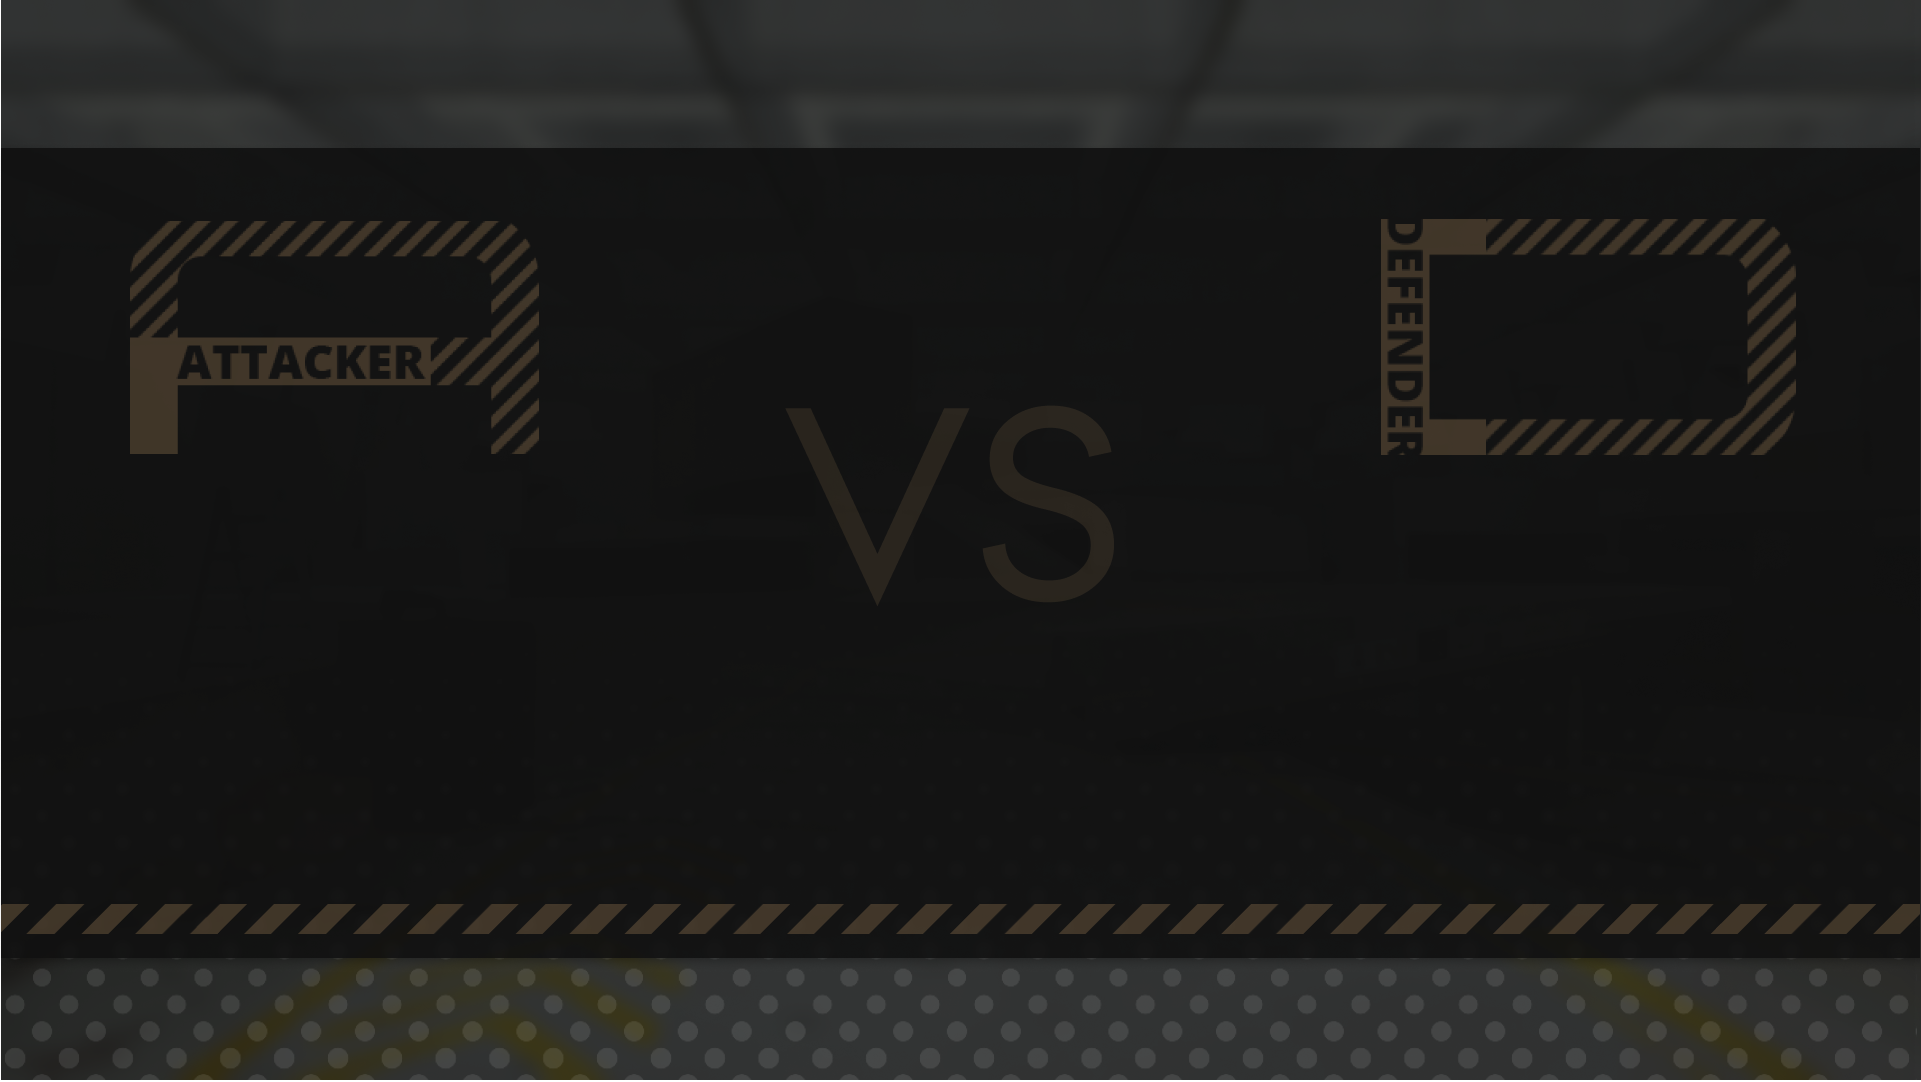
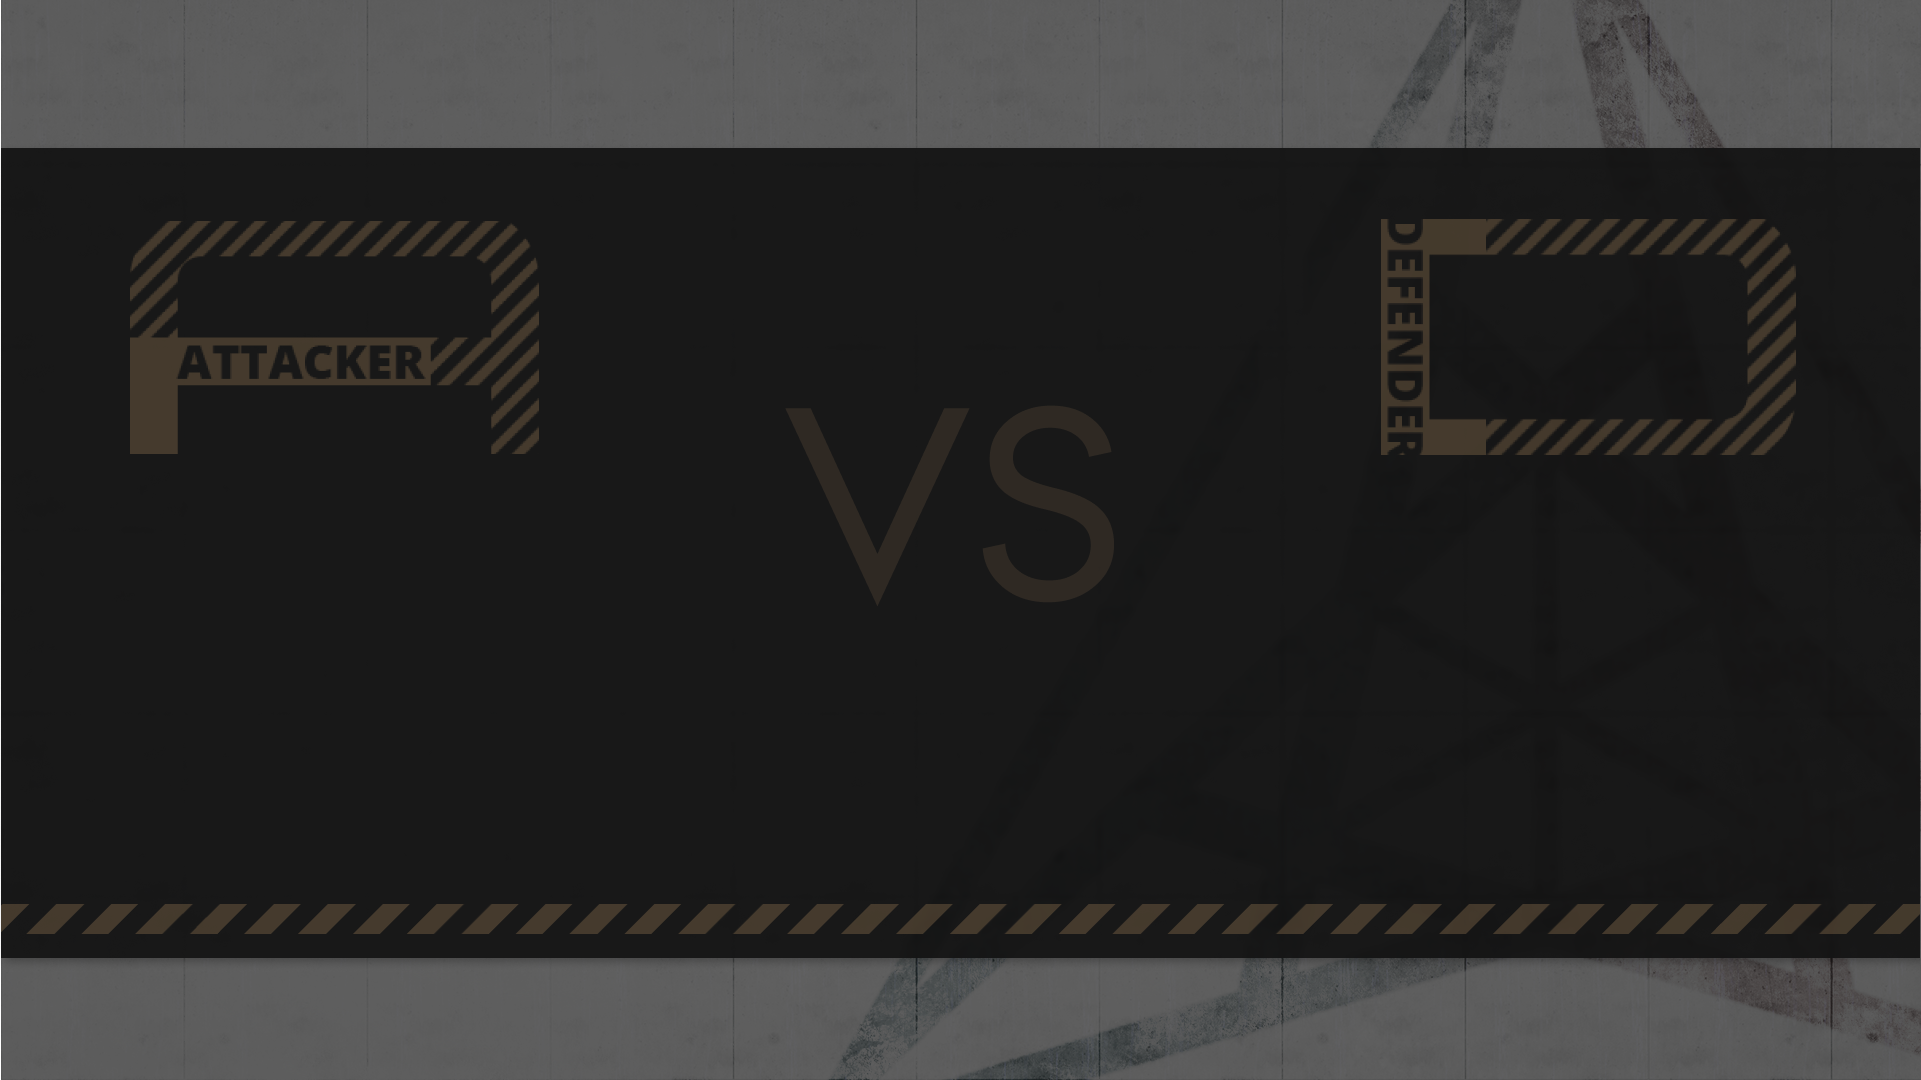
pushy
- replace simulate background
- retain simulate page values
- clicking on back will go to main menu's conflict res

Changed region(s): [[0.0, 0.0, 1.0, 1.0]]

diff --git a/Editor/src/Window/Overlay/SimulateOverlay.cpp b/Editor/src/Window/Overlay/SimulateOverlay.cpp
@@ -18,12 +18,15 @@
 
 namespace Tempest
 {
-	void SimulateOverlay::open_popup(const Event&)
+	void SimulateOverlay::open_popup(const Event& e)
 	{
+		auto a = event_cast<OpenSimulateTrigger>(e);
 		OverlayOpen = true;
 		window_flags = ImGuiWindowFlags_NoScrollbar | ImGuiWindowFlags_NoScrollWithMouse | ImGuiWindowFlags_NoTitleBar;
-		attacker.Reset();
-		defender.Reset();
+		attacker.Reset(a.instance);
+		defender.Reset(a.instance);
+
+		if (!a.instance.ecs.view<Components::Graph>(exclude_t<tc::Destroyed>()).contains(sequence))
 		sequence = UNDEFINED;
 
 		padding = ImGui::GetMainViewport()->Size.y * 0.02f;
@@ -201,7 +204,7 @@ namespace Tempest
 					if (UI::UIImageButton((void*)static_cast<size_t>(tex->GetID()), ImVec2{ tex->GetWidth() * 0.7f, tex->GetHeight() * 0.7f }, { 0,0 }, { 1,1 }, 0, { 0,0,0,0 }, btnTintHover, btnTintPressed))
 					{
 						OverlayOpen = false;
-						Service<EventManager>::Get().instant_dispatch<OpenMainMenuTrigger>();
+						Service<EventManager>::Get().instant_dispatch<OpenMainMenuTrigger>(3);
 					}
 
 					ImGui::SameLine();
@@ -568,5 +571,17 @@ namespace Tempest
 	void SimulateOverlay::pop_button_style() const
 	{
 		ImGui::PopStyleColor(3);
+	}
+
+	void SimulateOverlay::UnitData::Reset(Instance& instance)
+	{
+		if (!instance.ecs.view<Components::Character>(exclude_t<tc::Destroyed>()).contains(unit_id))
+			unit_id = UNDEFINED;
+
+		if (!instance.ecs.view<Components::Weapon>(exclude_t<tc::Destroyed>()).contains(weapon))
+			weapon = UNDEFINED;
+
+		if (!instance.ecs.view<Components::Graph>(exclude_t<tc::Destroyed>()).contains(action))
+			action = UNDEFINED;
 	}
 }

diff --git a/Editor/src/Window/Overlay/MainMenuOverlay.cpp b/Editor/src/Window/Overlay/MainMenuOverlay.cpp
@@ -15,13 +15,14 @@
 
 namespace Tempest
 {
-	void MainMenuOverlay::open_popup(const Event&)
+	void MainMenuOverlay::open_popup(const Event& e)
 	{
+		auto a = event_cast<OpenMainMenuTrigger>(e);
 		OverlayOpen = true;
 		MapTitle = "";
 		SelectedConflictRes = 0;
 		SelectedSequences.clear();
-		MainMenuUI = UI_SHOW::INITIAL;
+		MainMenuUI = static_cast<UI_SHOW>(a.menuType);
 		window_flags =  ImGuiWindowFlags_NoTitleBar;
 	}
 
@@ -291,7 +292,7 @@ namespace Tempest
 				if (UI::UIConflictSelectable(str.c_str(), false, 1).first)
 				{
 					OverlayOpen = false;
-					Service<EventManager>::Get().instant_dispatch<OpenSimulateTrigger>();
+					Service<EventManager>::Get().instant_dispatch<OpenSimulateTrigger>(instance);
 				}
 				ImGui::Dummy({ 0.f, viewport.Size.y * 0.07f });
 				cur_pos = ImGui::GetCursorPos();

diff --git a/Editor/src/Triggers/Triggers.h b/Editor/src/Triggers/Triggers.h
@@ -96,7 +96,12 @@ namespace Tempest
 	};
 
 	//Overlay Trigger
-	struct OpenSimulateTrigger : public Event {};
+	struct OpenSimulateTrigger : public Event 
+	{
+		OpenSimulateTrigger(Instance& in): instance{ in }  {}
+		Instance& instance;
+	};
+
 	struct OpenSimulateResultTrigger : public Event
 	{
 		OpenSimulateResultTrigger(Entity a, Entity d, Entity c):
@@ -117,7 +122,12 @@ namespace Tempest
 	};
 
 	struct OpenConflictResTrigger : public Event {};
-	struct OpenMainMenuTrigger : public Event {};
+	struct OpenMainMenuTrigger : public Event
+	{
+		OpenMainMenuTrigger(int type = 0) : menuType{ type } {}
+		int menuType;
+	};
+
 	struct OpenActionGraphTrigger : public Event // not using for new change
 	{
 		OpenActionGraphTrigger(Entity entityid, Instance& in) : id{ entityid }, instance{in} {}

diff --git a/Editor/src/Window/Overlay/UnitSheetOverlay.cpp b/Editor/src/Window/Overlay/UnitSheetOverlay.cpp
@@ -118,7 +118,6 @@ namespace Tempest
 					unsigned i = 0;
 					auto view = instance.ecs.view<Components::Character>(exclude_t<tc::Destroyed>());
 
-
 					// TODO: store selected item
 					const ImVec2 cursor{ ImGui::GetCursorPosX() + 30, ImGui::GetCursorPosY() + 20 };
 					for (auto id : view)
@@ -208,7 +207,8 @@ namespace Tempest
 					{
 						OverlayOpen = false;
 						ImGui::CloseCurrentPopup();
-						Service<EventManager>::Get().instant_dispatch<OpenSimulateTrigger>();
+						Service<EventManager>::Get().instant_dispatch<OpenMainMenuTrigger>(3);
+						//Service<EventManager>::Get().instant_dispatch<OpenSimulateTrigger>();
 					}
 
 					ImGui::SameLine();

diff --git a/Editor/src/Window/Overlay/AttackSystemOverlay.cpp b/Editor/src/Window/Overlay/AttackSystemOverlay.cpp
@@ -365,7 +365,8 @@ namespace Tempest
 						if (ImGui::ImageButton((void*)static_cast<size_t>(tex->GetID()), ImVec2{ tex->GetWidth() * 0.7f, tex->GetHeight() * 0.7f }))
 						{
 							OverlayOpen = false;
-							Service<EventManager>::Get().instant_dispatch<OpenSimulateTrigger>();
+							Service<EventManager>::Get().instant_dispatch<OpenMainMenuTrigger>(3);
+							//Service<EventManager>::Get().instant_dispatch<OpenSimulateTrigger>();
 						}
 
 						ImGui::SameLine();

diff --git a/Editor/src/Window/Popup/QuickMenuPopup.h b/Editor/src/Window/Popup/QuickMenuPopup.h
@@ -94,7 +94,7 @@ namespace Tempest
                         enable_popup = false;
                         ImGui::CloseCurrentPopup();
                         Service<EventManager>::Get().instant_dispatch<CloseOverlayTrigger>(current);
-                        Service<EventManager>::Get().instant_dispatch<OpenSimulateTrigger>();
+                        Service<EventManager>::Get().instant_dispatch<OpenSimulateTrigger>(instance);
                     }
 
 

diff --git a/Editor/src/Window/Overlay/SimulateOverlay.h b/Editor/src/Window/Overlay/SimulateOverlay.h
@@ -52,11 +52,7 @@ namespace Tempest
             Entity unit_id{ UNDEFINED };
             Entity weapon{ UNDEFINED };
             Entity action{ UNDEFINED };
-            void Reset() {
-                unit_id = UNDEFINED;
-                weapon = UNDEFINED;
-                action = UNDEFINED;
-            }
+            void Reset(Instance& instance);
         };
 
         UnitData attacker{};

diff --git a/Editor/src/Window/Overlay/WeaponSheetOverlay.cpp b/Editor/src/Window/Overlay/WeaponSheetOverlay.cpp
@@ -176,7 +176,8 @@ namespace Tempest
 					{
 						OverlayOpen = false;
 						ImGui::CloseCurrentPopup();
-						Service<EventManager>::Get().instant_dispatch<OpenSimulateTrigger>();
+						Service<EventManager>::Get().instant_dispatch<OpenMainMenuTrigger>(3);
+						//Service<EventManager>::Get().instant_dispatch<OpenSimulateTrigger>();
 					}
 
 					ImGui::SameLine();

diff --git a/Editor/src/Window/Overlay/MainMenuOverlay.h b/Editor/src/Window/Overlay/MainMenuOverlay.h
@@ -18,6 +18,7 @@ namespace Tempest
 {
     class MainMenuOverlay : public Window
     {
+    public:
         enum class UI_SHOW
         {
             INITIAL,
@@ -28,6 +29,8 @@ namespace Tempest
             LOAD_MAP,
             SELECT_CONFLICT_RES,
         };
+
+    private:
         const char* window_name() override
         {
             return "";

diff --git a/Editor/src/Window/Test/test_window.h b/Editor/src/Window/Test/test_window.h
@@ -169,7 +169,7 @@ namespace Tempest
 				if (clicked)
 				{
 					LOG("TRUE");
-					Service<EventManager>::Get().instant_dispatch<OpenSimulateTrigger>();
+					Service<EventManager>::Get().instant_dispatch<OpenSimulateTrigger>(instance);
 				}
 
 
